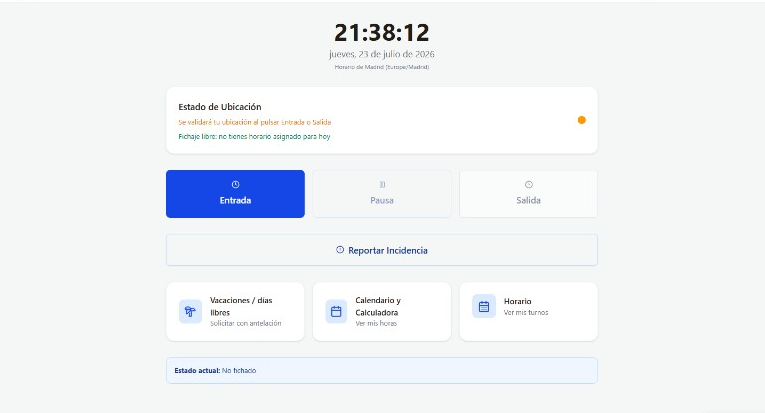
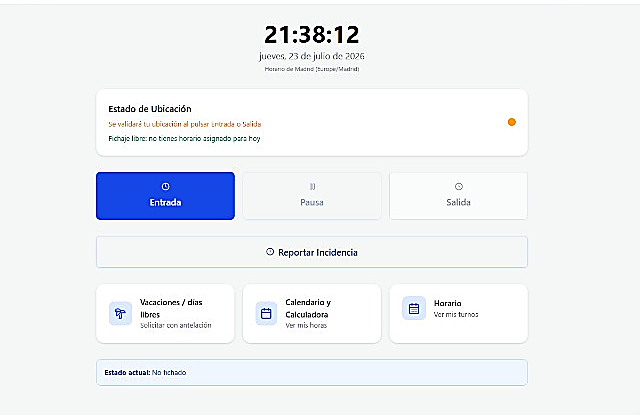
Habilitar teclado físico en terminal multifichaje.
Permite fichar con teclas numéricas del ordenador (incluido borrar, suprimir y enter) y actualiza la captura de acceso empleado con mejor nitidez.

diff --git a/client/src/pages/MultiClockTerminal.tsx b/client/src/pages/MultiClockTerminal.tsx
@@ -1,4 +1,4 @@
-import { useEffect, useMemo, useState } from "react";
+import { useEffect, useMemo, useRef, useState } from "react";
 import { useLocation } from "wouter";
 import { Button } from "@/components/ui/button";
 import { Input } from "@/components/ui/input";
@@ -28,6 +28,7 @@ export default function MultiClockTerminal() {
     clearAllSessions,
   } = useAuthContext();
   const trpcUtils = trpc.useUtils();
+  const pinInputRef = useRef<HTMLInputElement | null>(null);
   const [pin, setPin] = useState("");
   const [feedback, setFeedback] = useState<MultiClockFeedback | null>(null);
   const multiClockByPin = trpc.publicApi.multiClockByPin.useMutation();
@@ -85,6 +86,58 @@ export default function MultiClockTerminal() {
     if (multiClockByPin.isPending) return;
     setPin((prev) => prev.slice(0, -1));
   };
+
+  const handleClear = () => {
+    if (multiClockByPin.isPending) return;
+    setPin("");
+  };
+
+  useEffect(() => {
+    if (!isAdminAuthenticated) return;
+    pinInputRef.current?.focus();
+  }, [isAdminAuthenticated]);
+
+  useEffect(() => {
+    if (!isAdminAuthenticated) return;
+
+    const onKeyDown = (event: KeyboardEvent) => {
+      if (event.altKey || event.ctrlKey || event.metaKey) return;
+
+      if (/^\d$/.test(event.key)) {
+        event.preventDefault();
+        appendDigit(event.key);
+        return;
+      }
+
+      if (event.key === "Backspace") {
+        event.preventDefault();
+        handleBackspace();
+        return;
+      }
+
+      if (event.key === "Delete") {
+        event.preventDefault();
+        handleClear();
+        return;
+      }
+
+      if (event.key === "Enter" && pin.length === 4 && !multiClockByPin.isPending) {
+        event.preventDefault();
+        void submitPin(pin);
+      }
+    };
+
+    window.addEventListener("keydown", onKeyDown);
+    return () => window.removeEventListener("keydown", onKeyDown);
+  }, [
+    appendDigit,
+    handleBackspace,
+    handleClear,
+    isAdminAuthenticated,
+    multiClockByPin.isPending,
+    pin,
+    submitPin,
+  ]);
 
   const handleLogout = async () => {
     try {
@@ -149,6 +202,7 @@ export default function MultiClockTerminal() {
             {t("auth.multiClock.pinLabel")}
           </label>
           <Input
+            ref={pinInputRef}
             type="password"
             inputMode="numeric"
             pattern="[0-9]*"
@@ -178,7 +232,7 @@ export default function MultiClockTerminal() {
             type="button"
             variant="outline"
             className="h-12"
-            onClick={() => setPin("")}
+            onClick={handleClear}
             disabled={multiClockByPin.isPending}
           >
             {t("common.clear")}